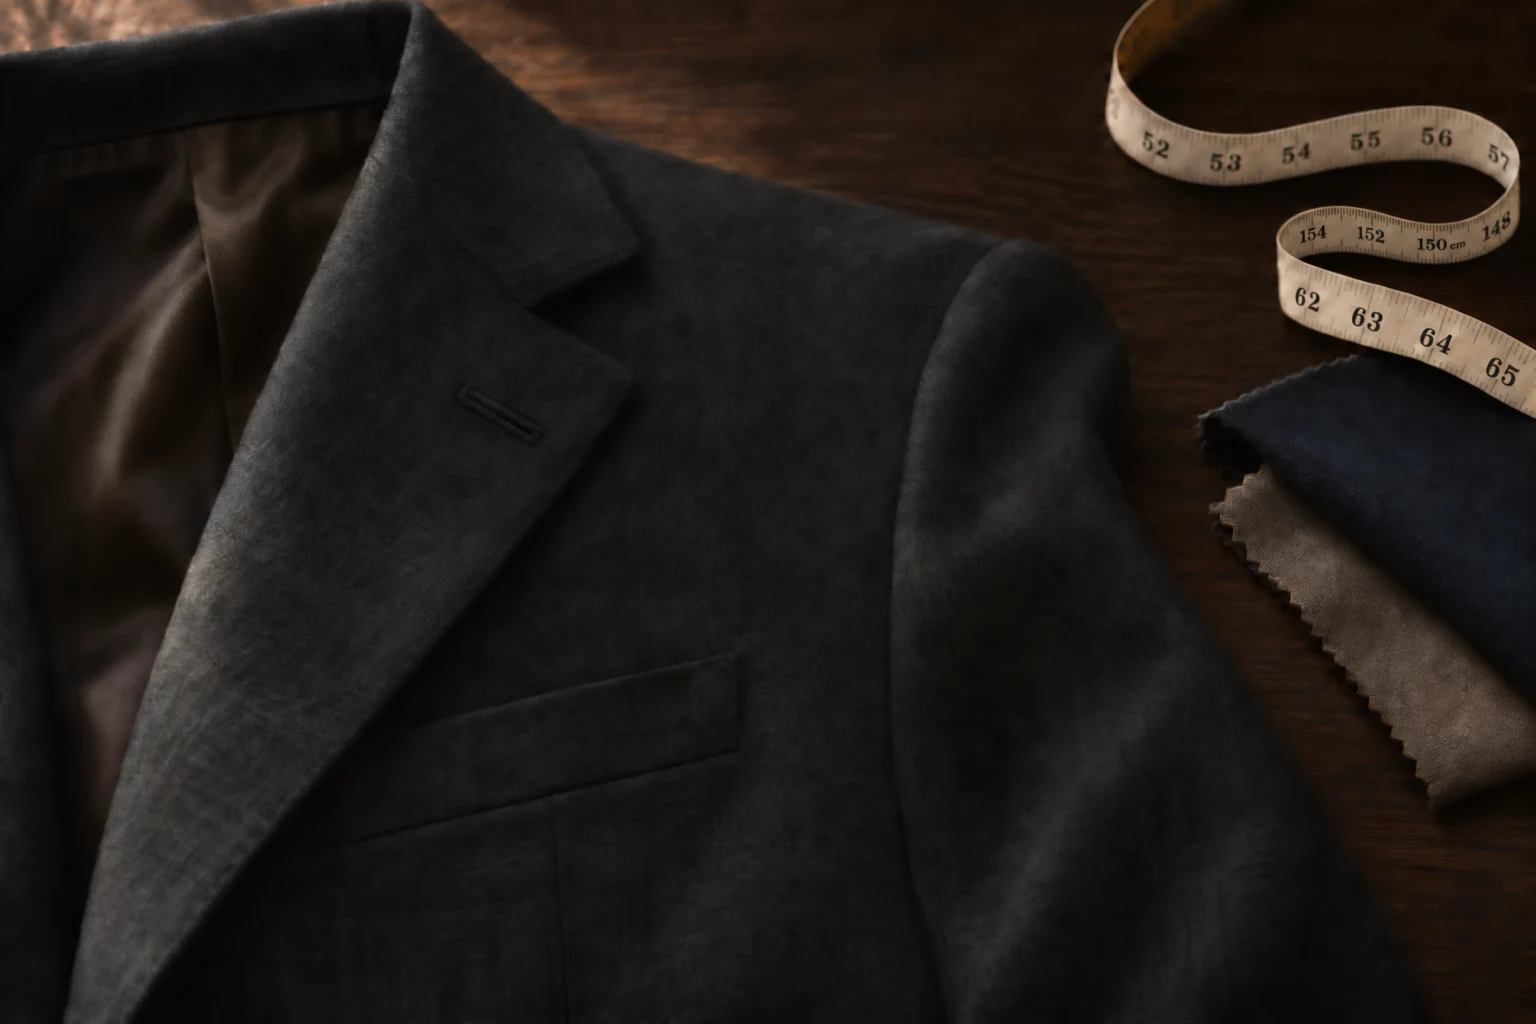
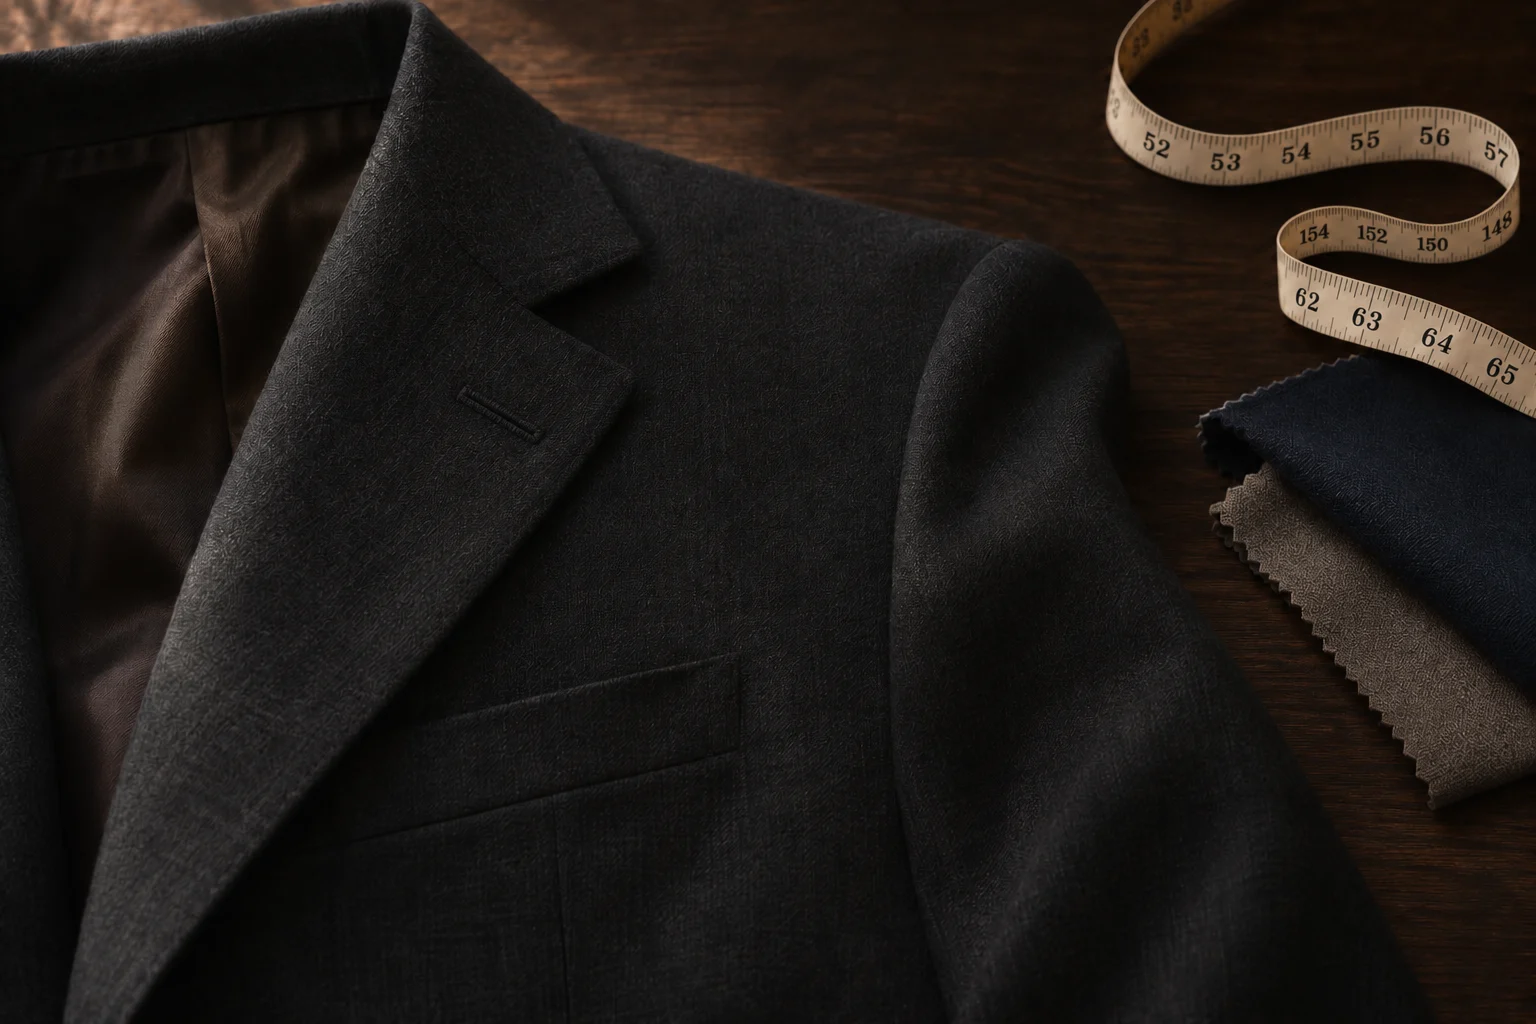
Restore model photos and corrected tailoring hero in home rotation

diff --git a/fitelier-app/public/founders-home.js b/fitelier-app/public/founders-home.js
@@ -3,6 +3,17 @@
  const reduced=matchMedia('(prefers-reduced-motion: reduce)');
  const clamp=(v,a,b)=>Math.min(b,Math.max(a,v));
  const mix=(a,b,t)=>a+(b-a)*t;
+ function slides(){
+  const photo=document.querySelector('.hero-v3-photo');
+  if(!photo||photo.querySelector('.fitelier-slides'))return;
+  const original=photo.querySelector('img');if(!original)return;
+  const group=document.createElement('div');group.className='fitelier-slides';
+  ['fitelier-tailoring-placeholder.webp','fitelier-hero-nocturne.jpg','fitelier-hero-v3.jpg'].forEach((name,i)=>{
+   const img=document.createElement('img');img.src='/assets/'+name;img.className='fitelier-slide fitelier-slide-'+i;
+   img.alt=['Charcoal wool jacket and fabric swatches on a walnut worktable','Model in dark tailoring','Model in a dark jacket and light trousers'][i];group.append(img);
+  });
+  photo.append(group);original.style.display='none';
+ }
  function measure(){
   const header=document.querySelector('.site-header'),wordmark=header?.querySelector('.wordmark');
   const rect=(wordmark||header)?.getBoundingClientRect();
@@ -34,6 +45,7 @@
   document.body.classList.toggle('fitelier-home',home);
   document.body.classList.toggle('fitelier-scrolled',window.scrollY>8);
   if(!home){if(frame)cancelAnimationFrame(frame);frame=0;logo?.remove();logo=null;metrics=null;lastTime=0;return;}
+  slides();
   if(!logo){
    logo=document.createElement('div');logo.className='fitelier-floating-logo';logo.textContent='FITELIER';logo.setAttribute('aria-hidden','true');
    Object.assign(logo.style,{left:'50%',top:'0px',willChange:'transform',transformOrigin:'center center'});

diff --git a/fitelier-app/public/founders-home.css b/fitelier-app/public/founders-home.css
@@ -143,3 +143,18 @@ body.fitelier-home:not(.fitelier-scrolled) .site-header .wordmark{opacity:0}
   text-decoration-thickness: 1px;
   text-underline-offset: 0.4em;
 }
+
+.fitelier-home .hero-v3-photo .fitelier-slides { position: absolute; inset: 0; }
+.fitelier-slides .fitelier-slide { position: absolute; inset: 0; width: 100%; height: 100%; object-fit: cover; }
+.fitelier-slides .fitelier-slide-1,
+.fitelier-slides .fitelier-slide-2 { opacity: 0; animation: fitelier-hero-rotation 18s infinite; }
+.fitelier-slides .fitelier-slide-1 { animation-delay: 5.5s; }
+.fitelier-slides .fitelier-slide-2 { animation-delay: 11.5s; }
+@keyframes fitelier-hero-rotation {
+  0%, 38.9%, 100% { opacity: 0; }
+  5.55%, 33.33% { opacity: 1; }
+}
+@media (prefers-reduced-motion: reduce) {
+  .fitelier-slides .fitelier-slide-1,
+  .fitelier-slides .fitelier-slide-2 { animation: none; }
+}
